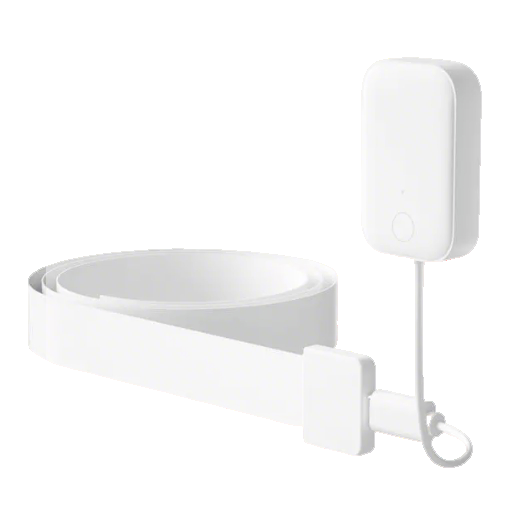
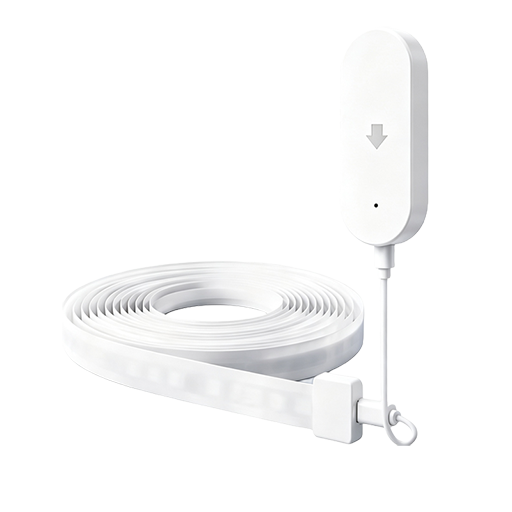
ADD ZG-308Z

Changed region(s): [[0.0312, 0.0625, 0.9688, 0.9375], [0.7188, 0.2188, 0.75, 0.2812]]

diff --git a/docs/devices/ZG-308Z.md b/docs/devices/ZG-308Z.md
@@ -1,0 +1,67 @@
+---
+title: "HOBEIAN ZG-308Z control via MQTT"
+description: "Integrate your HOBEIAN ZG-308Z via Zigbee2MQTT with whatever smart home infrastructure you are using without the vendor's bridge or gateway."
+addedAt: 2026-9-30T18:43:56
+pageClass: device-page
+---
+
+<!-- !!!! -->
+<!-- ATTENTION: This file is auto-generated through docgen! -->
+<!-- You can only edit the "Notes"-Section between the two comment lines "Notes BEGIN" and "Notes END". -->
+<!-- Do not use h1 or h2 heading within "## Notes"-Section. -->
+<!-- !!!! -->
+
+# HOBEIAN ZG-308Z
+
+|     |     |
+|-----|-----|
+| Model | ZG-308Z  |
+| Vendor  | [HOBEIAN](/supported-devices/#v=HOBEIAN)  |
+| Description | Water valve |
+| Exposes | water_countdown, battery, switch (state) |
+| Picture | ![HOBEIAN ZG-308Z](https://www.zigbee2mqtt.io/images/devices/ZG-308Z.png) |
+
+
+
+<!-- Notes BEGIN: You can edit here. Add "## Notes" headline if not already present. -->
+
+
+<!-- Notes END: Do not edit below this line -->
+
+
+
+## Options
+*[How to use device type specific configuration](../guide/configuration/devices-groups.md#specific-device-options)*
+
+* `state_action`: State actions will also be published as 'action' when true (default false). The value must be `true` or `false`
+
+
+## Exposes
+
+### Water countdown (numeric)
+Watering countdown to turn device off after a certain time.
+Value can be found in the published state on the `water_countdown` property.
+It's not possible to read (`/get`) this value.
+To write (`/set`) a value publish a message to topic `zigbee2mqtt/FRIENDLY_NAME/set` with payload `{"water_countdown": NEW_VALUE}`.
+The minimal value is `1` and the maximum value is `1440`.
+The unit of this value is `minute`.
+
+### Battery (numeric)
+Remaining battery in %.
+Value can be found in the published state on the `battery` property.
+To read (`/get`) the value publish a message to topic `zigbee2mqtt/FRIENDLY_NAME/get` with payload `{"battery": ""}`.
+It's not possible to write (`/set`) this value.
+The minimal value is `0` and the maximum value is `100`.
+The unit of this value is `%`.
+
+### Switch 
+The current state of this switch is in the published state under the `state` property (value is `ON` or `OFF`).
+To control this switch publish a message to topic `zigbee2mqtt/FRIENDLY_NAME/set` with payload `{"state": "ON"}`, `{"state": "OFF"}` or `{"state": "TOGGLE"}`.
+To read the current state of this switch publish a message to topic `zigbee2mqtt/FRIENDLY_NAME/get` with payload `{"state": ""}`.
+
+#### On with timed off
+When setting the state to ON, it might be possible to specify an automatic shutoff after a certain amount of time. To do this add an additional property `on_time` to the payload which is the time in seconds the state should remain on.
+Additionally an `off_wait_time` property can be added to the payload to specify the cooldown time in seconds when the switch will not answer to other on with timed off commands.
+Support depends on the switch firmware. Some devices might require both `on_time` and `off_wait_time` to work
+Examples : `{"state" : "ON", "on_time": 300}`, `{"state" : "ON", "on_time": 300, "off_wait_time": 120}`.
+
